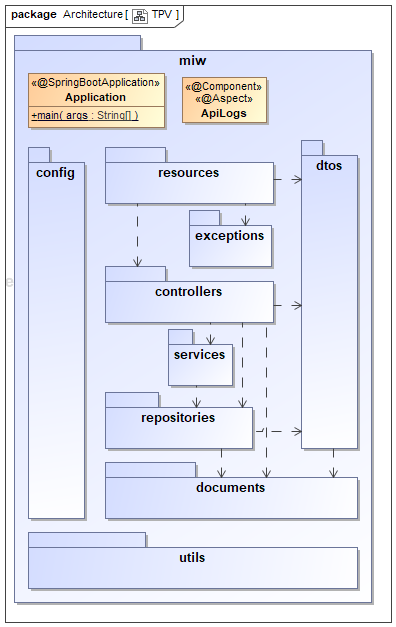
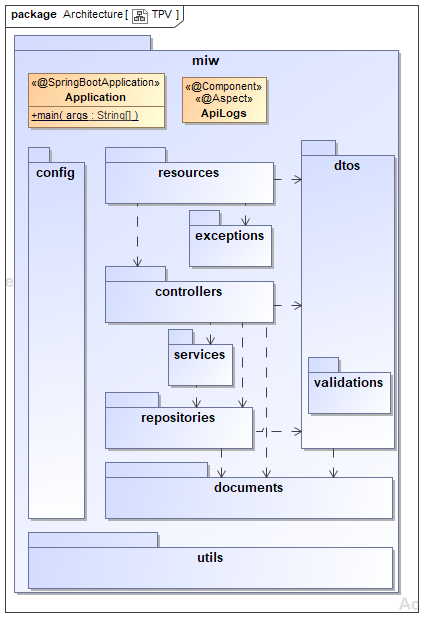
Refactoring Dtos

Changed region(s): [[0.0, 0.0, 1.0, 1.0]]

diff --git a/src/main/java/es/upm/miw/dtos/UserDto.java b/src/main/java/es/upm/miw/dtos/UserDto.java
@@ -2,21 +2,13 @@ package es.upm.miw.dtos;
 
 import java.util.Date;
 
-import javax.validation.constraints.NotNull;
-import javax.validation.constraints.Pattern;
+import com.fasterxml.jackson.annotation.JsonInclude;
+import com.fasterxml.jackson.annotation.JsonInclude.Include;
 
 import es.upm.miw.documents.core.User;
 
-public class UserDto {
-
-    private static final String NINE_DIGITS = "\\d{9}";
-
-    @NotNull
-    @Pattern(regexp = NINE_DIGITS)
-    private String mobile;
-
-    @NotNull
-    private String username;
+@JsonInclude(Include.NON_NULL)
+public class UserDto extends UserMinimumDto {
 
     private String password;
 
@@ -35,8 +27,7 @@ public class UserDto {
     }
 
     public UserDto(String mobile, String username, String password, String email, String dni, String address, Boolean active) {
-        this.mobile = mobile;
-        this.username = username;
+        super(mobile, username);
         this.password = password;
         this.email = email;
         this.setDni(dni);
@@ -49,29 +40,12 @@ public class UserDto {
     }
 
     public UserDto(User user) {
-        this.mobile = String.valueOf(user.getMobile());
-        this.username = user.getUsername();
+        super(user.getMobile(), user.getUsername());
         this.email = user.getEmail();
         this.dni = user.getDni();
         this.address = user.getAddress();
         this.active = user.isActive();
         this.registrationDate = user.getRegistrationDate();
-    }
-
-    public String getMobile() {
-        return mobile;
-    }
-
-    public void setMobile(String mobile) {
-        this.mobile = mobile;
-    }
-
-    public String getUsername() {
-        return username;
-    }
-
-    public void setUsername(String username) {
-        this.username = username;
     }
 
     public String getPassword() {
@@ -132,8 +106,8 @@ public class UserDto {
 
     @Override
     public String toString() {
-        return "UserDto [mobile=" + mobile + ", username=" + username + ", password=" + password + ", email=" + email + ", dni=" + dni
-                + ", address=" + address + ", active=" + active + ", registrationDate=" + registrationDate + "]";
+        return "[" + super.toString() + "UserDto [password=" + password + ", email=" + email + ", dni=" + dni + ", address=" + address
+                + ", active=" + active + ", registrationDate=" + registrationDate + "] ]";
     }
 
 }

diff --git a/src/main/java/es/upm/miw/dtos/CashierClosureLastOutputDto.java b/src/main/java/es/upm/miw/dtos/CashierClosureLastOutputDto.java
@@ -9,9 +9,8 @@ import es.upm.miw.documents.core.CashierClosure;
 
 public class CashierClosureLastOutputDto {
 
-    private boolean closed;
+    private Boolean closed;
 
-    // @JsonFormat(shape=JsonFormat.Shape.STRING, pattern="dd-MMM-yyyy HH:mm")
     @JsonInclude(Include.NON_NULL)
     private Date closureDate;
 
@@ -19,7 +18,7 @@ public class CashierClosureLastOutputDto {
         // Empty for framework
     }
 
-    public CashierClosureLastOutputDto(boolean closed, Date closureDate) {
+    public CashierClosureLastOutputDto(Boolean closed, Date closureDate) {
         super();
         this.closed = closed;
         this.closureDate = closureDate;
@@ -29,11 +28,11 @@ public class CashierClosureLastOutputDto {
         this(cashierClosure.isClosed(), cashierClosure.getClosureDate());
     }
 
-    public boolean isClosed() {
+    public Boolean isClosed() {
         return closed;
     }
 
-    public void setClosed(boolean closed) {
+    public void setClosed(Boolean closed) {
         this.closed = closed;
     }
 

diff --git a/src/main/java/es/upm/miw/dtos/UserMinimumDto.java b/src/main/java/es/upm/miw/dtos/UserMinimumDto.java
@@ -1,9 +1,24 @@
 package es.upm.miw.dtos;
 
+import javax.validation.constraints.NotNull;
+import javax.validation.constraints.Pattern;
+
 public class UserMinimumDto {
+    
+    @NotNull
+    @Pattern(regexp = es.upm.miw.dtos.validations.Pattern.NINE_DIGITS)
     private String mobile;
 
+    @NotNull
     private String username;
+
+    public UserMinimumDto() {
+    }
+
+    public UserMinimumDto(String mobile, String username) {
+        this.mobile = mobile;
+        this.username = username;
+    }
 
     public String getMobile() {
         return mobile;
@@ -23,6 +38,6 @@ public class UserMinimumDto {
 
     @Override
     public String toString() {
-        return "UserMinimumDto [mobile=" + mobile + ", username=" + username + "]";
+        return "mobile=" + mobile + ", username=" + username;
     }
 }

diff --git a/src/test/java/es/upm/miw/resources/UserResourceFunctionalTesting.java b/src/test/java/es/upm/miw/resources/UserResourceFunctionalTesting.java
@@ -147,7 +147,8 @@ public class UserResourceFunctionalTesting {
 
     @Test
     public void testReadUser() {
-        restService.loginAdmin().restBuilder().path(UserResource.USERS).path(UserResource.MOBILE_ID).expand(666666002).get().build();
+        String json=restService.loginAdmin().restBuilder(new RestBuilder<String>()).clazz(String.class).path(UserResource.USERS).path(UserResource.MOBILE_ID).expand(666666002).get().build();
+        System.out.println("------------>"+json);
     }
 
     @Test

diff --git a/src/main/java/es/upm/miw/dtos/validations/Pattern.java b/src/main/java/es/upm/miw/dtos/validations/Pattern.java
@@ -1,0 +1,5 @@
+package es.upm.miw.dtos.validations;
+
+public interface Pattern {
+    static final String NINE_DIGITS = "\\d{9}";
+}
